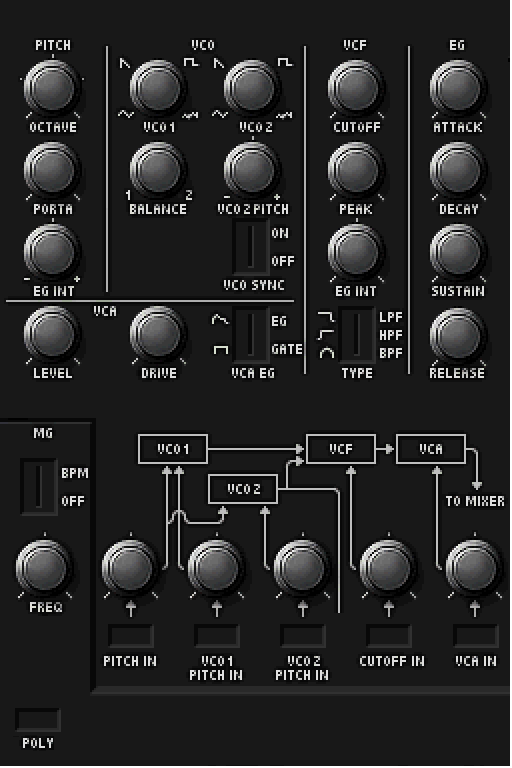
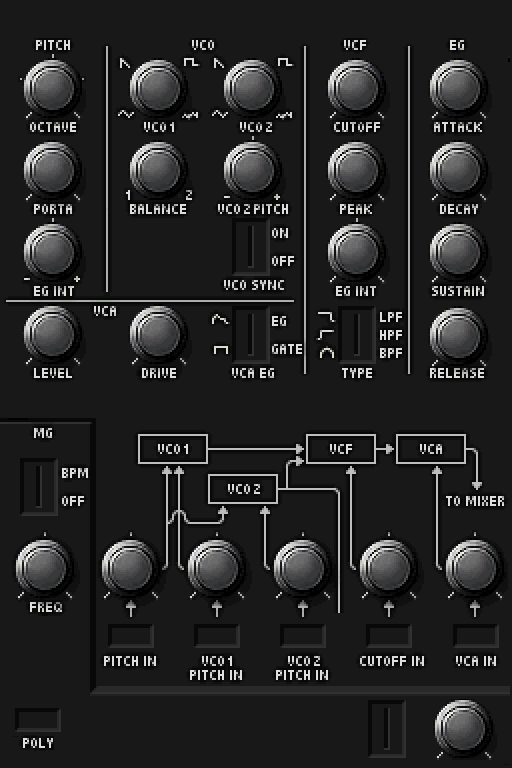
Add oversample selection buttons

Changed region(s): [[0.8438, 0.0, 1.0, 1.0], [0.7188, 0.9375, 0.8125, 1.0]]

diff --git a/SpaceBass.cpp b/SpaceBass.cpp
@@ -18,9 +18,11 @@ const int kNumPrograms = 5;
 
 enum EParams
 {
-	kNumParams = 26 + 7 - 1,
+	kNumParams = 26 + 7 - 1 + 2,
 	kMetaParams = 31,
 	mPolySwitch = 31,
+	mOversampleSwitch,
+	mDistractKnob,
 };
 
 typedef struct Property Property;
@@ -78,6 +80,8 @@ const Property parameterProperties[kNumParams] = {
 	{ PModsrc7, "modsrc3",	370, 628,	29, 0, 0, 6		},
 	{ PModsrc7, "modsrc4",	458, 628,	30, 0, 0, 6		},
 	{ PVoices4, "poly",		19, 712,	-1,	0, 0, 3		},
+	{ PSwitch2,	"oversample",368, 700,	-1, 0, 0, 1		},
+	{ PKnob,	"distract",	432, 696,	-1, 127, 0, 127	},
 };
 
 enum ELayout
@@ -95,6 +99,10 @@ SpaceBass::SpaceBass(IPlugInstanceInfo instanceInfo) : IPLUG_CTOR(kNumParams, kN
 
   print2_init();
   ds10state = ds10_init();
+  mOversample = 1;
+  mExtraRatio = 1;
+  mSampleRate = 44100;
+  
 
   CreateParams();
   CreateGraphics();
@@ -118,16 +126,14 @@ void SpaceBass::onNoteOff(int noteNumber, int velocity) {
 }
 
 void SpaceBass::CreateParams() {
-	char name[32];
 	for (int i = 0; i < kNumParams; i++) {
 		IParam *param = GetParam(i);
 		const Property *prop = &parameterProperties[i];
-		sprintf(name, "prop%d", i);
 
 		switch (prop->type) {
 		default:
 		case PKnob:
-			param->InitDouble(name, prop->def, prop->min, prop->max, 0.01);
+			param->InitDouble(prop->name, prop->def, prop->min, prop->max, 0.01);
 			break;
 		case PSwitch2:
 		case PSwitch3:
@@ -135,7 +141,7 @@ void SpaceBass::CreateParams() {
 		case PKnob5:
 		case PVoices4:
 		case PModsrc7:
-			param->InitEnum(name, prop->def - prop->min, prop->max - prop->min + 1);
+			param->InitEnum(prop->name, prop->def - prop->min, prop->max - prop->min + 1);
 			param->SetDisplayText(0, prop->name);
 			break;
 		}
@@ -206,14 +212,18 @@ void SpaceBass::ProcessDoubleReplacing(
   mMIDIReceiver.Flush(nFrames);
 }
 
+void SpaceBass::SetSampleRate(void)
+{
+	ds10_set_resampler(ds10state, mOversample, mSampleRate, mExtraRatio);
+}
+
 void SpaceBass::Reset()
 {
   TRACE;
   IMutexLock lock(this);
-  double sampleRate = GetSampleRate();
+  mSampleRate = GetSampleRate();
 
-
-  //voiceManager.setSampleRate(sampleRate);
+  SetSampleRate();
 }
 
 void SpaceBass::OnParamChange(int paramIdx)
@@ -223,7 +233,6 @@ void SpaceBass::OnParamChange(int paramIdx)
   IParam *param = GetParam(paramIdx);
   const Property *prop = &parameterProperties[paramIdx];
   int val = param->Value();
-  //printf("param %d: %lf\n", paramIdx, param->Value());
 
   if (paramIdx < kMetaParams) {
 	  /* mg.bpm has off in lower position */
@@ -233,6 +242,14 @@ void SpaceBass::OnParamChange(int paramIdx)
   } else switch (paramIdx) {
   case mPolySwitch:
 	  ds10_set_polyphony(ds10state, val + 1);
+	  break;
+  case mOversampleSwitch:
+	  mOversample = 0;
+	  SetSampleRate();
+	  break;
+  case mDistractKnob:
+	  mExtraRatio = pow(2, -(127 - param->Value()) / 127 * 4);
+	  SetSampleRate();
 	  break;
   }
 }

diff --git a/resampler.c b/resampler.c
@@ -48,13 +48,18 @@ static inline double getbuf(Resampler *r)
 void resamp_refill(Resampler *r, double *in, int len)
 {
 	assert(writable(r) >= len*4);
-	for (int i = 0; i < len; i++) {
-		double y0 = run_filter(&r->f1, in[i]);
-		putbuf(r, run_filter(&r->f2, y0));
-		putbuf(r, run_filter(&r->f2, 0));
-		double y1 = run_filter(&r->f1, 0);
-		putbuf(r, run_filter(&r->f2, y1));
-		putbuf(r, run_filter(&r->f2, 0));
+	if (r->oversample) {
+		for (int i = 0; i < len; i++) {
+			double y0 = run_filter(&r->f1, in[i]);
+			putbuf(r, run_filter(&r->f2, y0));
+			putbuf(r, run_filter(&r->f2, 0));
+			double y1 = run_filter(&r->f1, 0);
+			putbuf(r, run_filter(&r->f2, y1));
+			putbuf(r, run_filter(&r->f2, 0));
+		}
+	} else {
+		for (int i = 0; i < len; i++)
+			putbuf(r, in[i]);
 	}
 }
 
@@ -78,8 +83,12 @@ int resamp_get(Resampler *r, double *py)
 
 	double a = r->data[r->r];
 	double b = r->data[(r->r + 1) % RBUF_SIZE];
-	
-	*py = (a*(1 - r->t) + b*r->t)*4;
+	double y = a * (1 - r->t) + b * r->t;
+	/* oversampling gain compensation */
+	if (r->oversample)
+		y *= 4;
+	*py = y;
+
 	r->t += r->phase_inc;
 	return 1;
 }

diff --git a/ds10.c b/ds10.c
@@ -252,12 +252,19 @@ ds10_exit(Ds10State *dss)
 	free(dss);
 }
 
+void
+ds10_set_resampler(Ds10State *dss, int oversample, double sampling_rate, double extra_ratio)
+{
+	dss->resampler.oversample = oversample;
+	dss->resampler.phase_inc = 32768.0 / sampling_rate * (oversample ? 4 : 1) * extra_ratio;
+}
+
 Ds10State *
 ds10_init(void)
 {
 	Ds10State *dss = calloc(1, sizeof(*dss));
 
-	dss->resampler.phase_inc = 32768.0 / 44100 * 4;
+	ds10_set_resampler(dss, 1, 44100, 1);
 
 	for (int i = 0; i < MaxVoices; i++) {
 		dss->mem_state[i].basemem = readseg("c:\\01ff8000x.bin");

diff --git a/SpaceBass.h b/SpaceBass.h
@@ -18,6 +18,8 @@ public:
   SpaceBass(IPlugInstanceInfo instanceInfo);
   ~SpaceBass();
 
+  void SetSampleRate();
+
   void Reset();
   void OnParamChange(int paramIdx);
   void ProcessDoubleReplacing(double** inputs, double** outputs, int nFrames);
@@ -38,6 +40,9 @@ private:
   double mFrequency;
   void CreatePresets();
   MIDIReceiver mMIDIReceiver;
+  int mOversample;
+  double mSampleRate;
+  double mExtraRatio;
   IControl* mVirtualKeyboard;
   void processVirtualKeyboard();
 

diff --git a/ds10.h b/ds10.h
@@ -75,6 +75,7 @@ void ds10_noteon(Ds10State *dss, int note, int velocity);
 void ds10_noteoff(Ds10State *dss, int note);
 void ds10_set_polyphony(Ds10State *dst, int polyphony);
 void ds10_exit(Ds10State *dst);
+void ds10_set_resampler(Ds10State *dss, int oversample, double sampling_rate, double extra_ratio);
 
 Ds10State *ds10_init(void);
 

diff --git a/resampler.h b/resampler.h
@@ -12,6 +12,7 @@ struct Filterx2 {
 
 typedef struct Resampler Resampler;
 struct Resampler {
+	int oversample;
 	Filterx2 f1, f2;
 	unsigned r, w;
 	double t, phase_inc;
